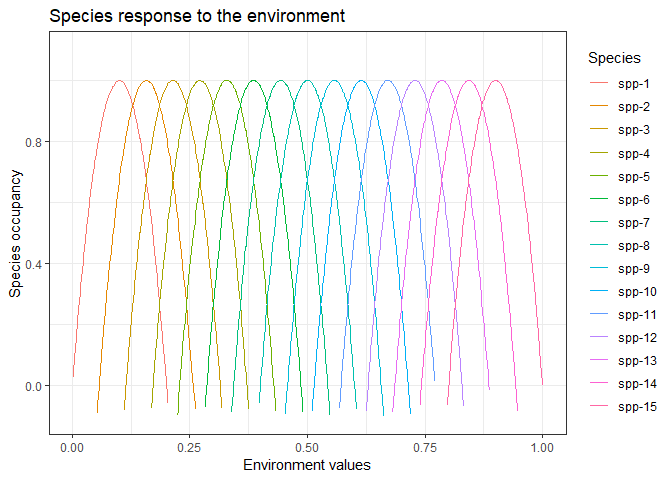
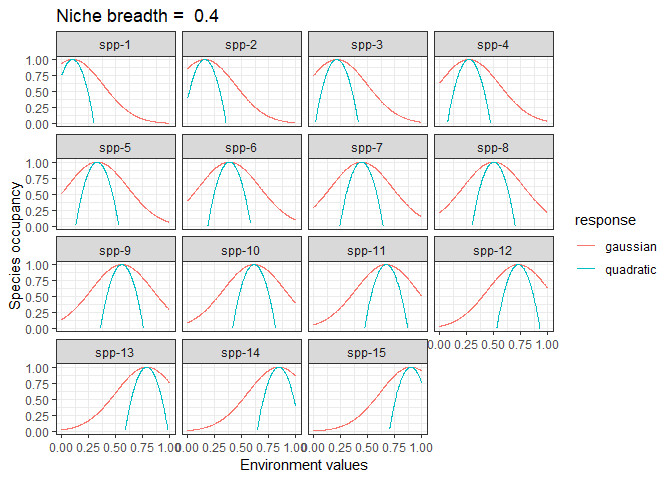
Testing different values of niche breadth

diff --git a/aboutScripts-FAQ/environmentOnSpeciesOccupancy.md b/aboutScripts-FAQ/environmentOnSpeciesOccupancy.md
@@ -52,3 +52,15 @@ Plot
 ![](environmentOnSpeciesOccupancy_files/figure-markdown_github/unnamed-chunk-5-1.png)
 
 ![](environmentOnSpeciesOccupancy_files/figure-markdown_github/unnamed-chunk-6-1.png)
+
+Try to superimpose both curves:
+
+![](environmentOnSpeciesOccupancy_files/figure-markdown_github/unnamed-chunk-7-1.png) ![](environmentOnSpeciesOccupancy_files/figure-markdown_github/unnamed-chunk-8-1.png)
+
+![](environmentOnSpeciesOccupancy_files/figure-markdown_github/unnamed-chunk-9-1.png)
+
+![](environmentOnSpeciesOccupancy_files/figure-markdown_github/unnamed-chunk-10-1.png)
+
+![](environmentOnSpeciesOccupancy_files/figure-markdown_github/unnamed-chunk-11-1.png)
+
+![](environmentOnSpeciesOccupancy_files/figure-markdown_github/unnamed-chunk-12-1.png)
